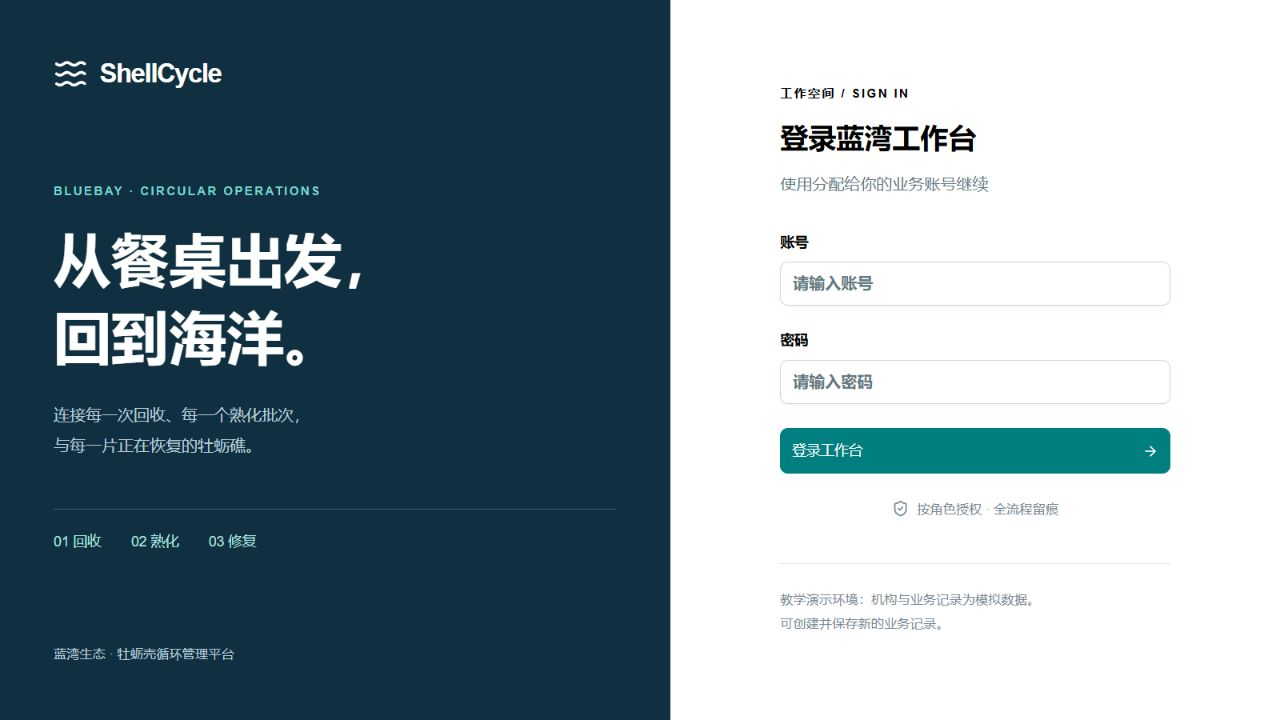
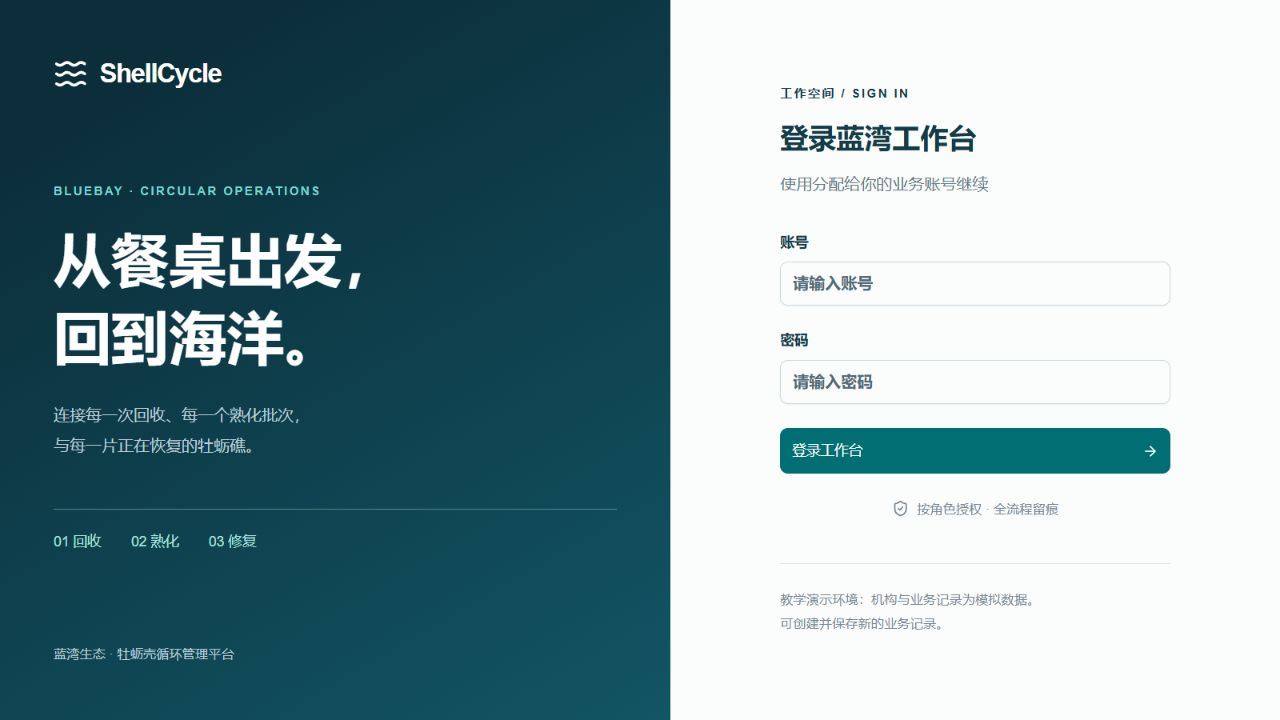
docs: record production verification and refresh real screenshots

diff --git a/docs/deployment.md b/docs/deployment.md
@@ -1,5 +1,15 @@
 # 部署与恢复记录
 
+## 2026-09-22 · 质量修正发布
+
+- 第 7 版部署成功，运行代码 `93a5b2caa970bf70459c13a5d4e1d8b188f44076`。
+- 正式入口仍为 https://shellcycle.vercel.app/，数据库和附件仍在 Cloudflare。
+- 发布前后原有 1,111 条业务记录逐字段一致；不包含本地测试新增数据。
+- 旧首页与五个业务 API 直连均为 410；源站网关保护保持有效。
+- 新增 21 组质量/安全回归，加上既有测试和静态类型检查均通过；生产 Worker 构建产物在本地也通过页面、登录及数据库读回检查。
+- npm 依赖扫描 0 项已知告警。详细边界见 [质量验收记录](quality-review.md)。
+- 总览和登录截图更新至本次发布；其余截图为此前正式版本的真实页面。
+
 ## 2026-09-21
 
 - 从已部署的云端源码恢复本地项目，未重建生产数据库。
